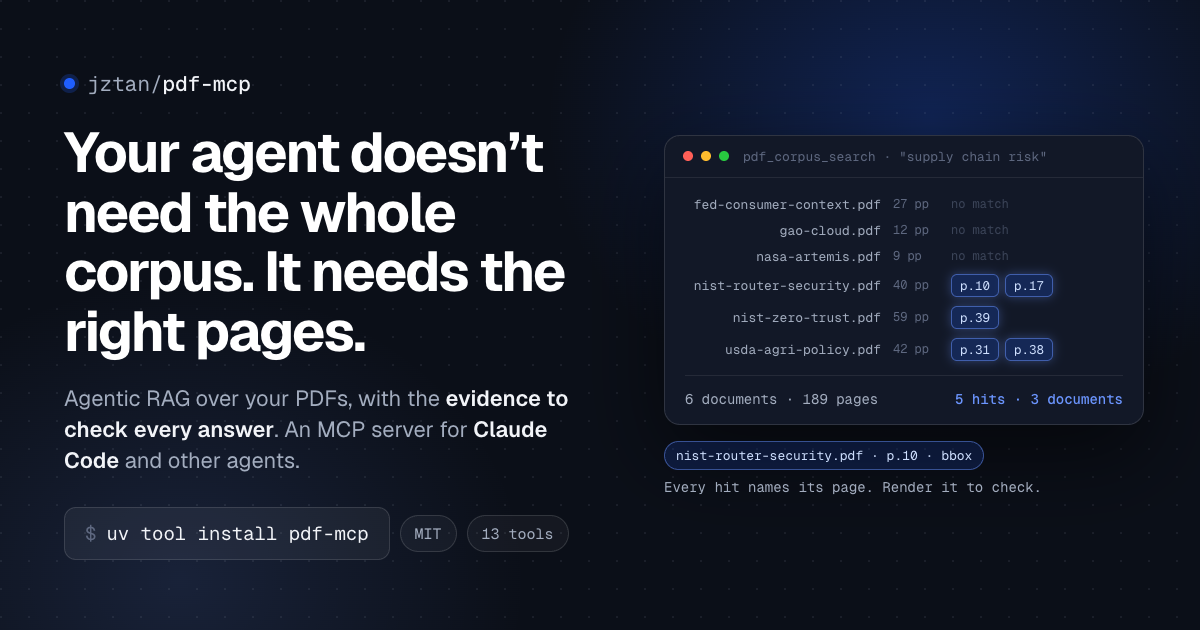
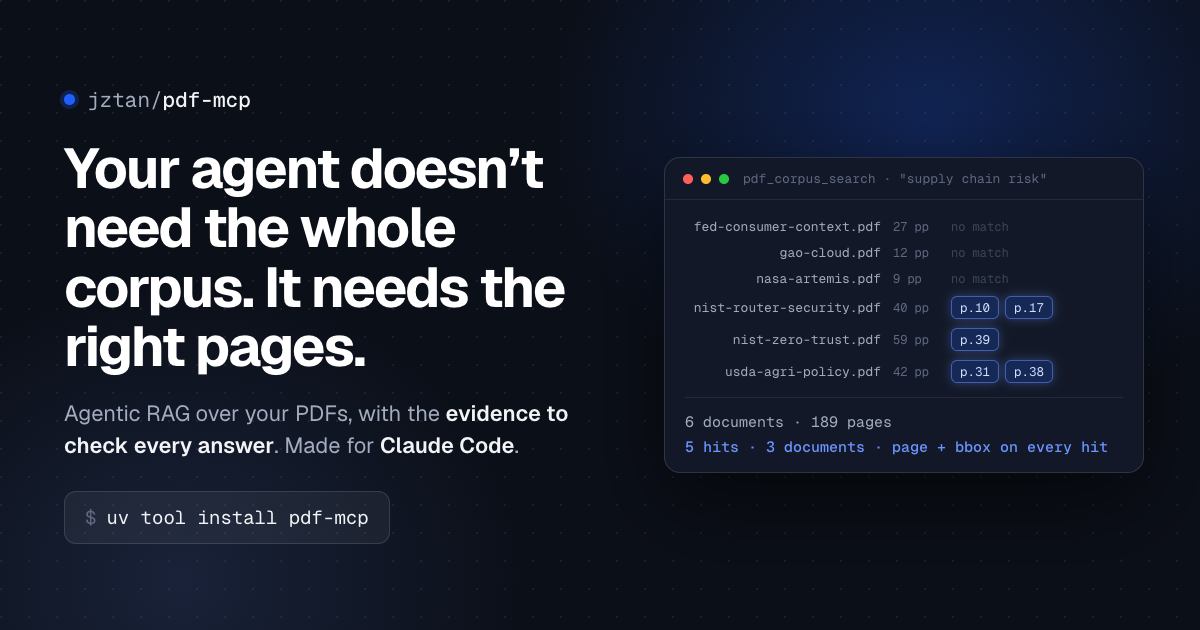
docs: balance both social cards at share-preview size
Two-line sub lines on both cards so the left column sits level with the
search panel. Dark card: the hit chip and caption fold into the panel tally
("5 hits · 3 documents · page + bbox on every hit", 15 px) and the MIT and
tool-count pills go. Light card: stronger panel border, shadow and title
bar so the panel edge survives at thumbnail size. Numbers unchanged, same
real search run.

diff --git a/scripts/og-template.html b/scripts/og-template.html
@@ -79,7 +79,7 @@
     border: 1px solid rgba(107,149,255,0.5); border-radius: 6px; padding: 2px 8px; box-shadow: 0 0 10px rgba(107,149,255,0.35); }
   .hits em { font-style: normal; font-size: 12px; color: #3b4458; }
   .tally { margin-top: 14px; padding-top: 14px; border-top: 1px solid rgba(255,255,255,0.08);
-    font-size: 14px; color: var(--soft); display: flex; justify-content: space-between; align-items: center; white-space: nowrap; }
+    font-size: 15px; color: var(--soft); display: flex; flex-direction: column; gap: 6px; align-items: flex-start; white-space: nowrap; }
   .tally b { color: var(--accent); font-weight: 500; }
   .hit-line { width: 480px; display: flex; flex-direction: column; align-items: flex-start; gap: 8px;
     font-family: "Geist Mono", "SF Mono", ui-monospace, Menlo, monospace; font-size: 14px; color: var(--soft); }
@@ -98,12 +98,10 @@
       <h1>Your agent doesn&#8217;t need the whole corpus. It needs the right pages.</h1>
       <p class="sub">
         Agentic RAG over your PDFs, with the <b>evidence to check every answer</b>.
-        An MCP server for <b>Claude Code</b> and other agents.
+        Made for <b>Claude Code</b>.
       </p>
       <div class="foot">
         <div class="cmd"><span class="p">$</span> uv tool install pdf-mcp</div>
-        <span class="pill">MIT</span>
-        <span class="pill">13 tools</span>
       </div>
     </div>
 
@@ -120,12 +118,8 @@
           <div class="row"><span class="name">nist-router-security.pdf</span><span class="pp">40 pp</span><span class="hits"><i>p.10</i><i>p.17</i></span></div>
           <div class="row"><span class="name">nist-zero-trust.pdf</span><span class="pp">59 pp</span><span class="hits"><i>p.39</i></span></div>
           <div class="row"><span class="name">usda-agri-policy.pdf</span><span class="pp">42 pp</span><span class="hits"><i>p.31</i><i>p.38</i></span></div>
-          <div class="tally"><span>6 documents &middot; 189 pages</span><span><b>5 hits &middot; 3 documents</b></span></div>
+          <div class="tally"><span>6 documents &middot; 189 pages</span><span><b>5 hits &middot; 3 documents &middot; page + bbox on every hit</b></span></div>
         </div>
-      </div>
-      <div class="hit-line">
-        <span class="chip">nist-router-security.pdf&nbsp;&middot;&nbsp;p.10&nbsp;&middot;&nbsp;bbox</span>
-        <span>Every hit names its page. Render it to check.</span>
       </div>
     </div>
   </div>

diff --git a/scripts/og-template-light.html b/scripts/og-template-light.html
@@ -27,7 +27,7 @@
   html, body { margin: 0; padding: 0; }
   :root {
     --bg: #f8f9fb; --ink: #1d1d1f; --soft: #515661; --dim: #8a8f9c;
-    --accent: #1f5eff; --line: rgba(29,29,31,0.12); --card: #ffffff; --cell: #e7e9ee;
+    --accent: #1f5eff; --line: rgba(29,29,31,0.22); --card: #ffffff; --cell: #e7e9ee;
   }
   body {
     width: 1200px; height: 630px; overflow: hidden; position: relative;
@@ -53,10 +53,10 @@
 
   .right { flex: 1; display: flex; flex-direction: column; align-items: flex-end; justify-content: center; gap: 16px; }
   .panel { width: 480px; border-radius: 16px; border: 1px solid var(--line); background: var(--card);
-    box-shadow: 0 24px 60px rgba(29,29,31,0.10); overflow: hidden;
+    box-shadow: 0 24px 60px rgba(29,29,31,0.18), 0 0 0 1px rgba(29,29,31,0.06); overflow: hidden;
     font-family: "Geist Mono", "SF Mono", ui-monospace, Menlo, monospace; }
   .panel-bar { display: flex; align-items: center; gap: 8px; padding: 12px 18px; border-bottom: 1px solid var(--line);
-    color: var(--dim); font-size: 13px; }
+    background: #eef0f4; color: var(--dim); font-size: 13px; }
   .panel-bar i { width: 10px; height: 10px; border-radius: 50%; display: inline-block; }
   .panel-bar .t { margin-left: 6px; }
   .panel-body { padding: 18px 20px 16px; }
@@ -84,8 +84,8 @@
       <div class="brand">jztan/<b>pdf-mcp</b></div>
       <h1>Your agent doesn&#8217;t need the whole corpus.</h1>
       <p class="sub">
-        Agentic RAG over your PDFs, with the <b>evidence to check every answer</b>.
-        Search a folder, read only the pages that matter, and see which page each answer came from.
+        Agentic RAG over your PDFs, with the <b>evidence to check every answer</b>:
+        every hit names its page.
       </p>
       <div class="foot">See what your AI agent sees.</div>
     </div>
